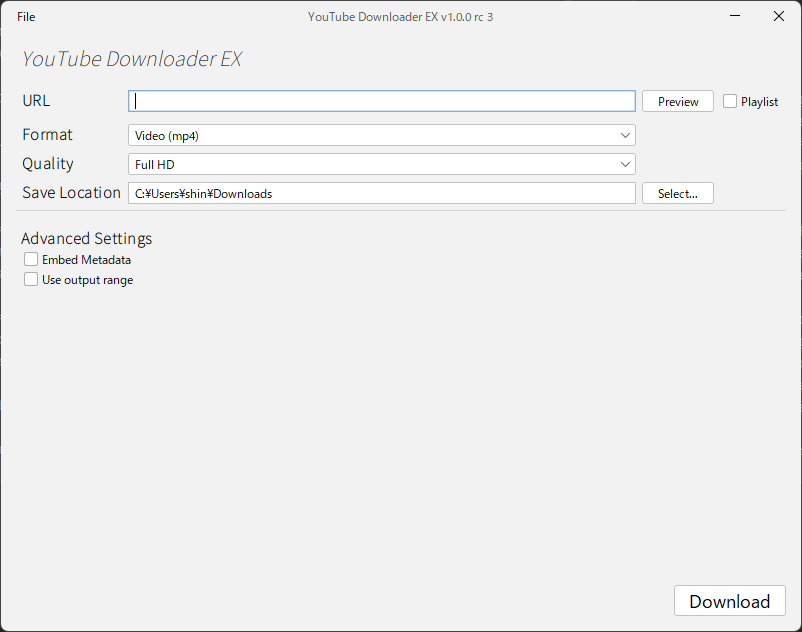
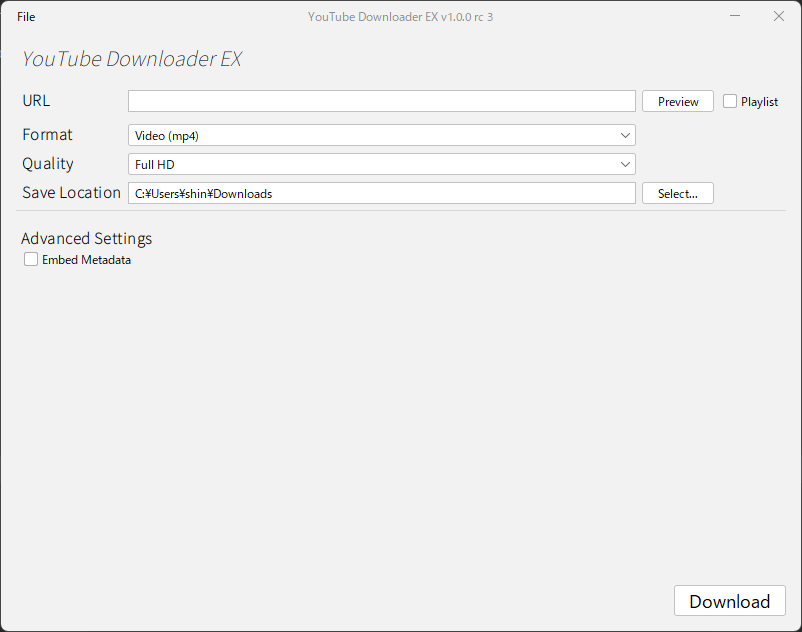
Fixed

diff --git a/src/main/java/app/youtubedownloaderex/ui/main/FormPanel.java b/src/main/java/app/youtubedownloaderex/ui/main/FormPanel.java
@@ -221,7 +221,7 @@ public class FormPanel extends JPanel {
 
         panel.add(title);
         panel.add(saveMetadata);
-        panel.add(isRangeSet);
+//        panel.add(isRangeSet);
 
         isRangeSet.addActionListener(e -> {
             rangeSelectButton.setVisible(isRangeSet.isSelected());

diff --git a/src/main/java/app/youtubedownloaderex/AppConstraints.java b/src/main/java/app/youtubedownloaderex/AppConstraints.java
@@ -6,7 +6,7 @@ import javax.swing.*;
 import java.util.Locale;
 
 public class AppConstraints {
-    public static final Locale LOCALE = Locale.JAPAN;
+    public static final Locale LOCALE = Locale.US;
 
     public static final String TITLE = LangAssets.get("common.app.title");
 
